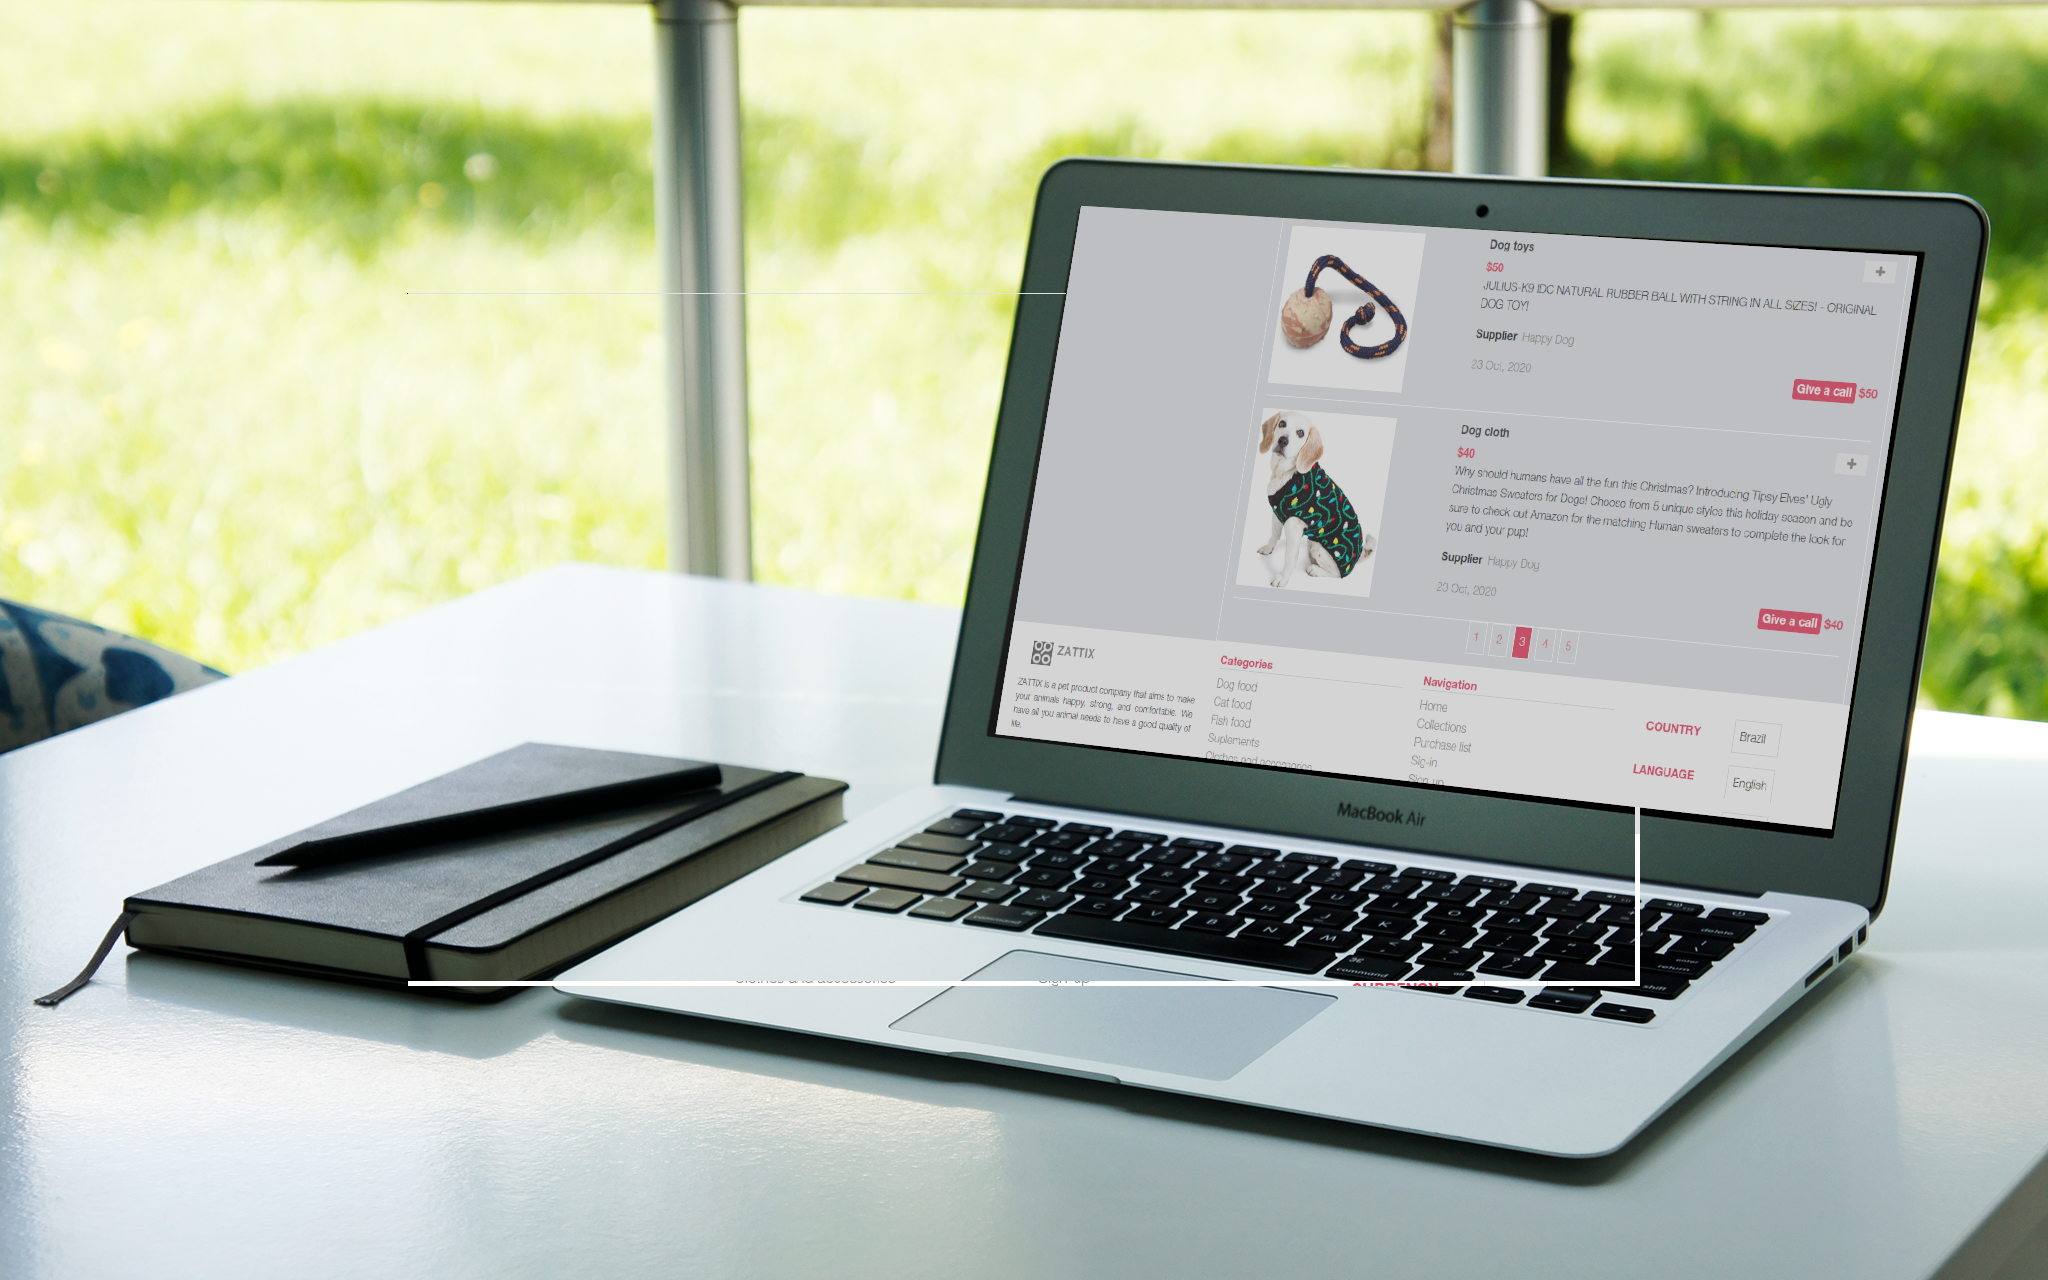
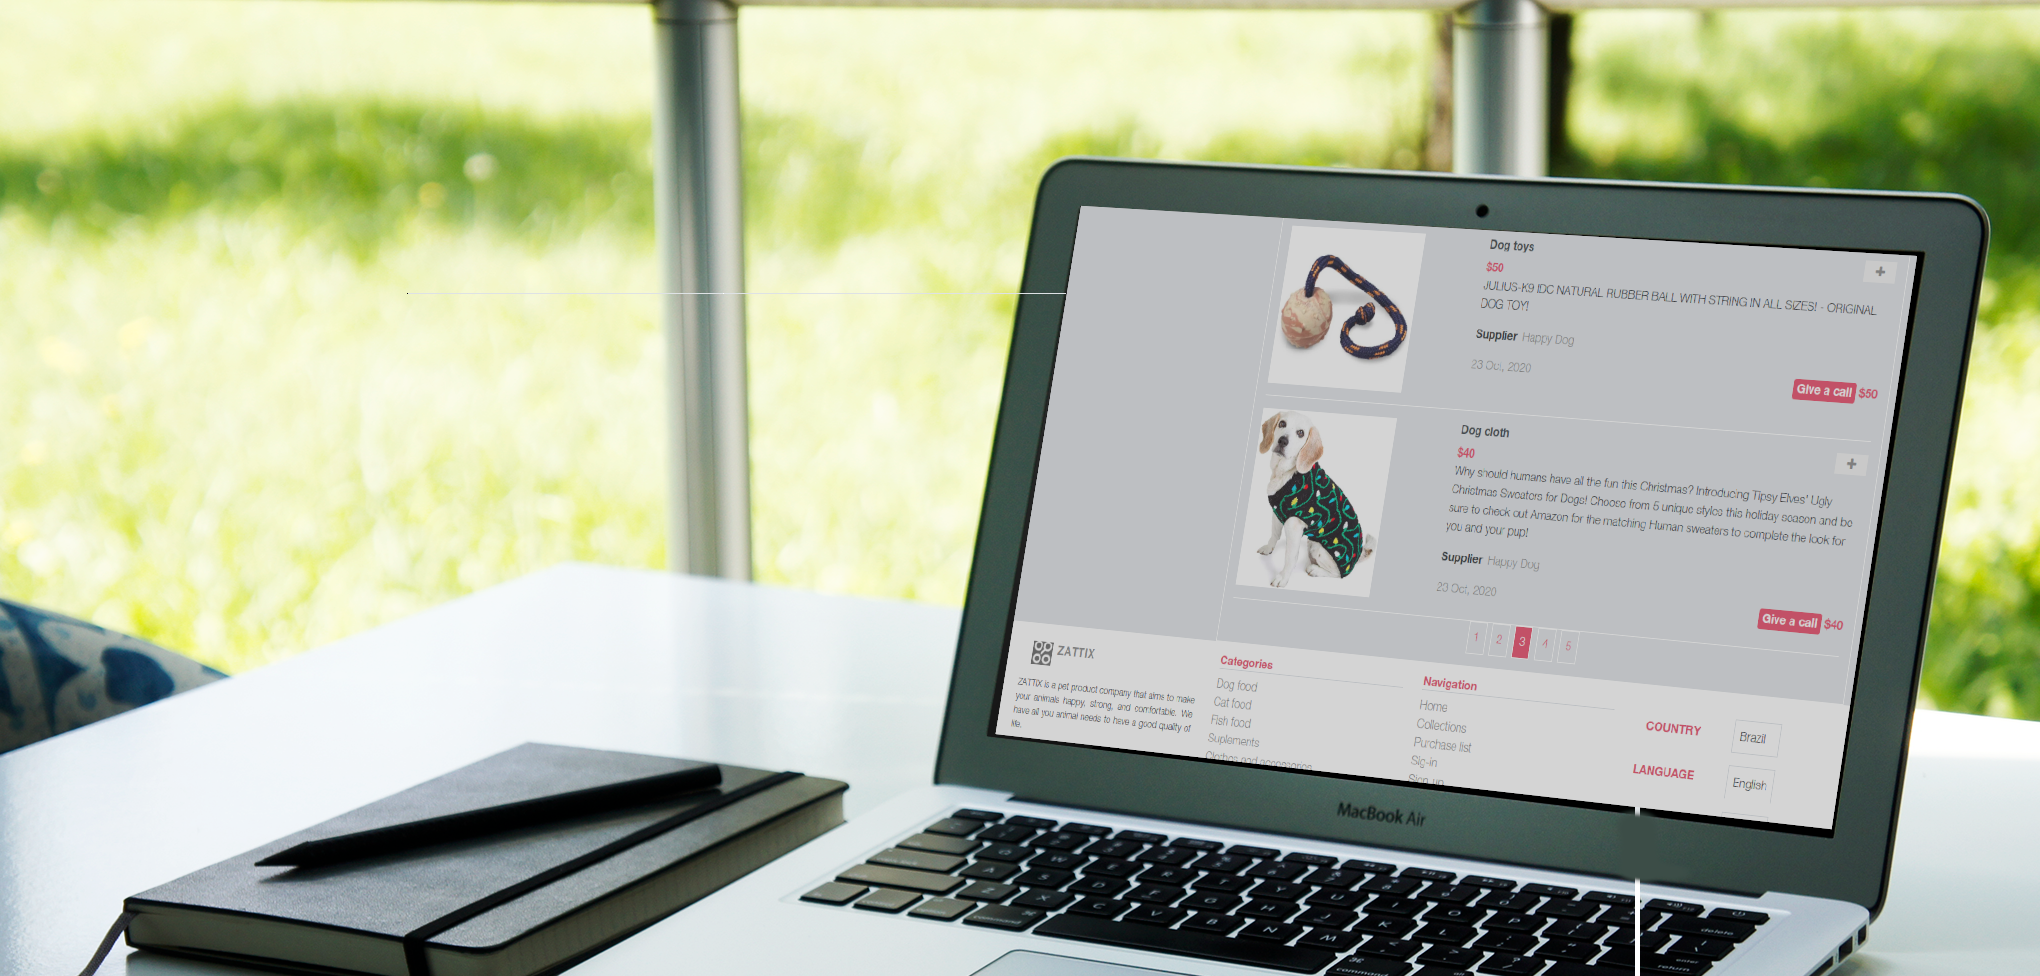
Fix image positions on mobile version

diff --git a/assets/stylesheets/main.css b/assets/stylesheets/main.css
@@ -299,7 +299,7 @@ div.languages,
 .shop-main-project {
   background:
     linear-gradient(to bottom, rgba(0, 0, 0, 0.5), rgba(255, 255, 255, 0)),
-    url('../images/online-shop-full.png') center / 150% no-repeat;
+    url('../images/online-shop-full.png') 90% / 245% no-repeat;
 }
 
 .shop-project {
@@ -437,6 +437,18 @@ footer {
   .about *,
   section.portfolio * {
     left: 16px;
+  }
+
+  .shop-main-project {
+    background:
+      linear-gradient(to bottom, rgba(0, 0, 0, 0.5), rgba(255, 255, 255, 0)),
+      url('../images/online-shop-full.png') 50% / 260% no-repeat;
+  }
+  
+  .main-project {
+    background:
+      linear-gradient(to bottom, rgba(0, 0, 0, 1), rgba(0, 0, 0, 0.5), rgba(255, 255, 255, 0)),
+      url('../images/main-project.png') center / 200% no-repeat;
   }
 
   .projects,
